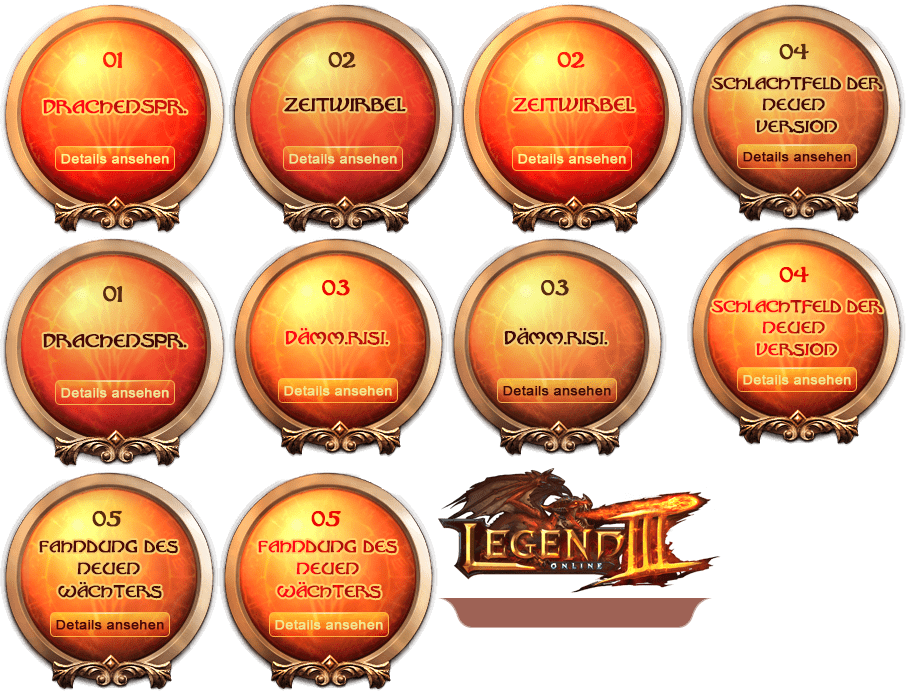
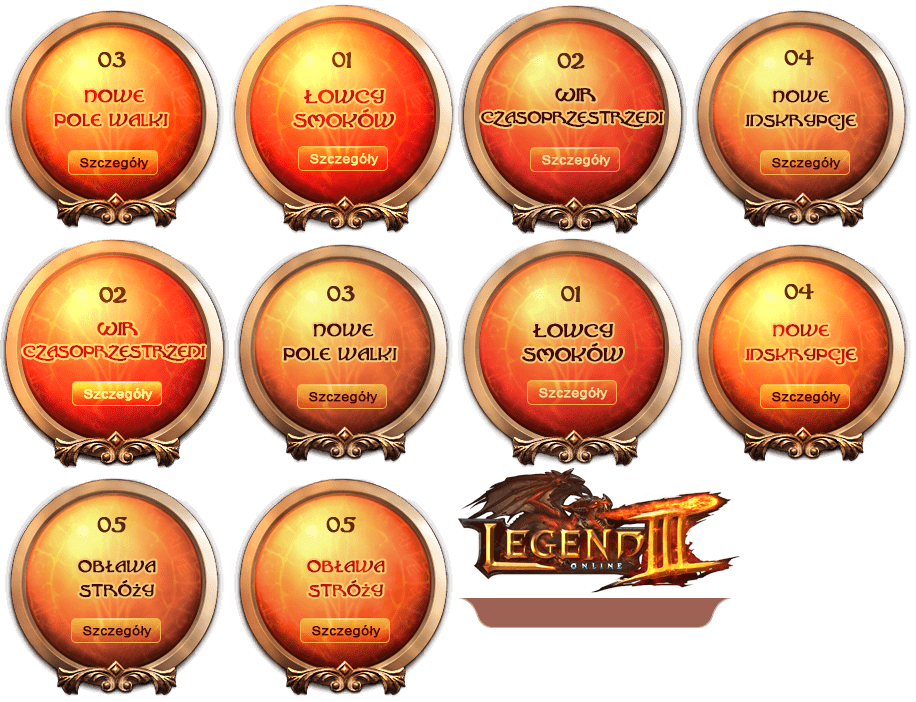
home page index-image update

diff --git a/public/css/index.min.css b/public/css/index.min.css
@@ -1,1 +1,1 @@
-#footer,.index_content,.mian{min-width:1000px}.nav a,a{text-decoration:none}@font-face{font-family:SimplifiedArabic;src:url(../fonts/simpo.eot);src:url(../fonts/simpo.woff2) format('woff2'),url(../fonts/SimplifiedArabic.woff) format('woff'),url(../fonts/SimplifiedArabic.ttf) format('truetype'),url(../fonts/SimplifiedArabic.svg#SimplifiedArabic) format('svg'),url(../fonts/simpo.eot?#iefix) format('embedded-opentype');font-weight:400;font-style:normal}blockquote,body,dd,div,dl,dt,fieldset,form,h1,h2,h3,h4,h5,h6,input,li,ol,p,pre,td,textarea,th,ul{margin:0;padding:0}a{blr:expression(this.onFocus=this.blur());outline:0;background:0 0;-moz-outline:none}:focus{outline:0}.ellipsis{white-space:nowrap;overflow:hidden;text-overflow:ellipsis}.clearfix:after{content:" ";display:block;clear:both;height:0}.clearfix{zoom:1;display:table}.bom_btn a,.logo a{display:block}.fl{float:left}.fr,.nav{float:right}ol,ul{list-style:none}.index_bg_nav{background-image:url(../images/index/atlas_index.png);background-position:-438px -598px;width:274px;height:30px}.index_btn_1,.index_btn_1:hover,.index_btn_2,.index_btn_2:hover{background-image:url(../images/index/atlas_index.png);width:229px;height:234px}.index_btn_1{background-position:0 -234px}.index_btn_1:hover{background-position:0 0}.index_btn_2{background-position:-229px 0}.index_btn_2:hover{background-position:-458px 0}.index_btn_3,.index_btn_3:hover,.index_btn_4,.index_btn_4:hover,.index_btn_5,.index_btn_5:hover{width:219px;height:223px;background-image:url(../images/index/atlas_index.png)}.index_btn_3{background-position:-448px -234px}.index_btn_3:hover{background-position:-229px -234px}.index_btn_4{background-position:-687px 0}.index_btn_4:hover{background-position:-687px -223px}.index_btn_5{background-position:0 -468px}.index_btn_5:hover{background-position:-219px -468px}.index_logo{background-image:url(../images/index/atlas_index.png);background-position:-438px -468px;width:283px;height:130px}.index_content{background:url(../images/bg.jpg) center top no-repeat #000;height:945px}.mian{margin:0 auto;width:1000px}.nav{text-align:center;line-height:30px;font-size:14px;font-family:Arial}.nav a{color:#e2c68a}.nav a:hover{color:#f8df68}.nav span{margin:0 10px;color:#e2c68a}.logo{padding-top:50px}.logo a{text-indent:-999999em;margin:0 0 0 344px}.bom_btn{margin-top:220px}.bom_btn div{margin-left:207px}.bom_btn p{margin-left:78px}.bom_btn div a:nth-child(1){margin-right:30px;float:left}.bom_btn div a:nth-child(2){float:left}.bom_btn p a:nth-child(1),.bom_btn p a:nth-child(2){float:left;margin-right:48px}.bom_btn p a:nth-child(3){float:left}
+#footer,.index_content,.mian{min-width:1000px}.nav a,a{text-decoration:none}@font-face{font-family:SimplifiedArabic;src:url(../fonts/simpo.eot);src:url(../fonts/simpo.woff2) format('woff2'),url(../fonts/SimplifiedArabic.woff) format('woff'),url(../fonts/SimplifiedArabic.ttf) format('truetype'),url(../fonts/SimplifiedArabic.svg#SimplifiedArabic) format('svg'),url(../fonts/simpo.eot?#iefix) format('embedded-opentype');font-weight:400;font-style:normal}blockquote,body,dd,div,dl,dt,fieldset,form,h1,h2,h3,h4,h5,h6,input,li,ol,p,pre,td,textarea,th,ul{margin:0;padding:0}a{blr:expression(this.onFocus=this.blur());outline:0;background:0 0;-moz-outline:none}:focus{outline:0}.ellipsis{white-space:nowrap;overflow:hidden;text-overflow:ellipsis}.clearfix:after{content:" ";display:block;clear:both;height:0}.clearfix{zoom:1;display:table}.bom_btn a,.logo a{display:block}.fl{float:left}.fr,.nav{float:right}ol,ul{list-style:none}.index_bg_nav{background-image:url(../images/index/atlas_index.png);background-position:-458px -598px;width:274px;height:30px}.index_btn_1,.index_btn_1:hover,.index_btn_2,.index_btn_2:hover,.index_btn_3:hover,.index_btn_4,.index_btn_4:hover,.index_btn_5,.index_btn_5:hover{width:229px;height:234px;background-image:url(../images/index/atlas_index.png)}.index_btn_1{background-position:-458px -234px}.index_btn_1:hover{background-position:-229px 0}.index_btn_2{background-position:-458px 0}.index_btn_2:hover{background-position:0 -234px}.index_btn_3{background-image:url(../images/index/atlas_index.png);background-position:-229px -234px;width:229px;height:234px}.index_btn_3:hover{background-position:0 0}.index_btn_4{background-position:-687px 0}.index_btn_4:hover{background-position:-687px -234px}.index_btn_5{background-position:0 -468px}.index_btn_5:hover{background-position:-229px -468px}.index_logo{background-image:url(../images/index/atlas_index.png);background-position:-458px -468px;width:283px;height:130px}.index_content{background:url(../images/bg.jpg) center top no-repeat #000;height:945px}.mian{margin:0 auto;width:1000px}.nav{text-align:center;line-height:30px;font-size:14px;font-family:Arial}.nav a{color:#e2c68a}.nav a:hover{color:#f8df68}.nav span{margin:0 10px;color:#e2c68a}.logo{padding-top:50px}.logo a{text-indent:-999999em;margin:0 0 0 344px}.bom_btn{margin-top:220px}.bom_btn div{margin-left:207px}.bom_btn p{margin-left:78px}.bom_btn div a:nth-child(1){margin-right:30px;float:left}.bom_btn div a:nth-child(2){float:left}.bom_btn p a:nth-child(1),.bom_btn p a:nth-child(2){float:left;margin-right:48px}.bom_btn p a:nth-child(3){float:left}

diff --git a/src/css/atlas_index.css b/src/css/atlas_index.css
@@ -1,72 +1,72 @@
 .index_bg_nav {
   background-image: url(../images/index/atlas_index.png);
-  background-position: -438px -598px;
+  background-position: -458px -598px;
   width: 274px;
   height: 30px;
 }
 .index_btn_1 {
   background-image: url(../images/index/atlas_index.png);
-  background-position: 0px -234px;
+  background-position: -458px -234px;
   width: 229px;
   height: 234px;
 }
 .index_btn_1:hover {
   background-image: url(../images/index/atlas_index.png);
-  background-position: 0px 0px;
+  background-position: -229px 0px;
   width: 229px;
   height: 234px;
 }
 .index_btn_2 {
   background-image: url(../images/index/atlas_index.png);
-  background-position: -229px 0px;
+  background-position: -458px 0px;
   width: 229px;
   height: 234px;
 }
 .index_btn_2:hover {
   background-image: url(../images/index/atlas_index.png);
-  background-position: -458px 0px;
+  background-position: 0px -234px;
   width: 229px;
   height: 234px;
 }
 .index_btn_3 {
   background-image: url(../images/index/atlas_index.png);
-  background-position: -448px -234px;
-  width: 219px;
-  height: 223px;
+  background-position: -229px -234px;
+  width: 229px;
+  height: 234px;
 }
 .index_btn_3:hover {
   background-image: url(../images/index/atlas_index.png);
-  background-position: -229px -234px;
-  width: 219px;
-  height: 223px;
+  background-position: 0px 0px;
+  width: 229px;
+  height: 234px;
 }
 .index_btn_4 {
   background-image: url(../images/index/atlas_index.png);
   background-position: -687px 0px;
-  width: 219px;
-  height: 223px;
+  width: 229px;
+  height: 234px;
 }
 .index_btn_4:hover {
   background-image: url(../images/index/atlas_index.png);
-  background-position: -687px -223px;
-  width: 219px;
-  height: 223px;
+  background-position: -687px -234px;
+  width: 229px;
+  height: 234px;
 }
 .index_btn_5 {
   background-image: url(../images/index/atlas_index.png);
   background-position: 0px -468px;
-  width: 219px;
-  height: 223px;
+  width: 229px;
+  height: 234px;
 }
 .index_btn_5:hover {
   background-image: url(../images/index/atlas_index.png);
-  background-position: -219px -468px;
-  width: 219px;
-  height: 223px;
+  background-position: -229px -468px;
+  width: 229px;
+  height: 234px;
 }
 .index_logo {
   background-image: url(../images/index/atlas_index.png);
-  background-position: -438px -468px;
+  background-position: -458px -468px;
   width: 283px;
   height: 130px;
 }

diff --git a/public/detail.html b/public/detail.html
@@ -41,14 +41,15 @@
 	<div id="footer"></div>
 </body>
 </html>
-<script src="https://img.oasgames.com/upload/1519723765/dist/scripts/runtime.min.js"></script>
+<script src="https://img.oasgames.com/fc-oasis/v2.0.0.4/loader.min.js"></script>
 <script src="js/jquery-1.10.2.min.js"></script>
 <script src="js/detail.min.js"></script>
 <script>
-	FcoFooter({
-        lang: 'pl',
-        forumBok: true
-    }).fire('footer');
+    window.addEventListener('fcoready', function () {
+        FcoFooter({
+            lang: 'pl',
+        }).fire('footer');
+    });
       // GA
     (function (i, s, o, g, r, a, m) {
         i['GoogleAnalyticsObject'] = r;

diff --git a/public/index.html b/public/index.html
@@ -34,12 +34,14 @@
 </body>
 </html>
 <script src="js/jquery-1.10.2.min.js"></script>
-<script src="https://img.oasgames.com/upload/1519723765/dist/scripts/runtime.min.js"></script>
+<script src="https://img.oasgames.com/fc-oasis/v2.0.0.4/loader.min.js"></script>
 <script>
-	FcoFooter({
-        lang: 'pl',
-        forumBok: true
-    }).fire('footer');
+    window.addEventListener('fcoready', function () {
+        FcoFooter({
+            lang: 'pl',
+        }).fire('footer');
+    });
+
     // GA
     (function (i, s, o, g, r, a, m) {
         i['GoogleAnalyticsObject'] = r;
